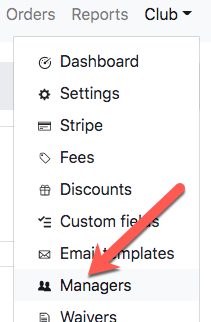
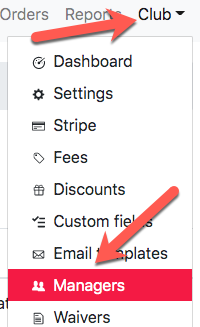
Added managers section documentation

diff --git a/docs/club-management/managers.md b/docs/club-management/managers.md
@@ -3,5 +3,30 @@ id: managers
 title: Managers
 slug: /club-management/managers
 ---
+import useBaseUrl from '@docusaurus/useBaseUrl';
 
-Coming soon!
+Clubs can have multiple managers for Curling I/O.
+Each of the managers is granted the same level of access.
+
+## Finding Managers
+
+You can access the list of all the managers at your club, by clicking on **Managers** in the top right **Club** dropdown in the top navigation bar.
+
+![Curlers Navigation](/img/docs/club-management/managers/navigation.png)
+
+## Adding Managers
+
+You can add another manager to your club by entering their name and email address into the form at the top of the screen and clicking the **Create Manager** button.
+
+![Curlers Navigation](/img/docs/club-management/managers/create-manager.png)
+
+Curling I/O will send an email to the email address entered inviting them to join the club management (admin) area.
+The email will contain a link to the admin dashboard.
+
+We recommend managers bookmark the admin area to avoid confusion between the public and administration sections of your Curling I/O site.
+
+## Removing Managers
+
+We highly recommend that you remove staff from your Curling I/O management when they are no longer with the club.
+You can do so by clicking the **Delete** link next to the manager you wish to remove.
+This doesn't delete their account, as they may have curler profiles and participate in leagues themselves, but it does remove them from your club management.

diff --git a/docs/club-management/curlers.md b/docs/club-management/curlers.md
@@ -10,7 +10,7 @@ Members can they reuse their curler profiles for registration across multiple se
 
 ## Finding Curler Profiles
 
-You can see a list of all the curler profiles who have registered at your club, regardless of season, by clicking on **Curlers** in the top navigation.
+You can access the list of all the curler profiles who have registered at your club, regardless of season, by clicking on **Curlers** in the top navigation.
 
 ![Curlers Navigation](/img/docs/club-management/curlers/navigation.png)
 
